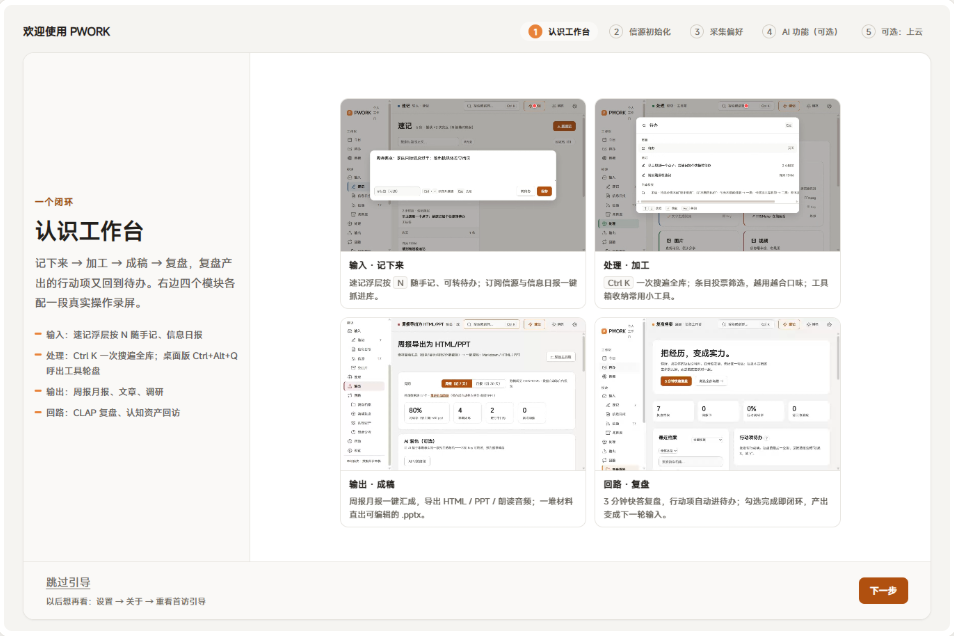
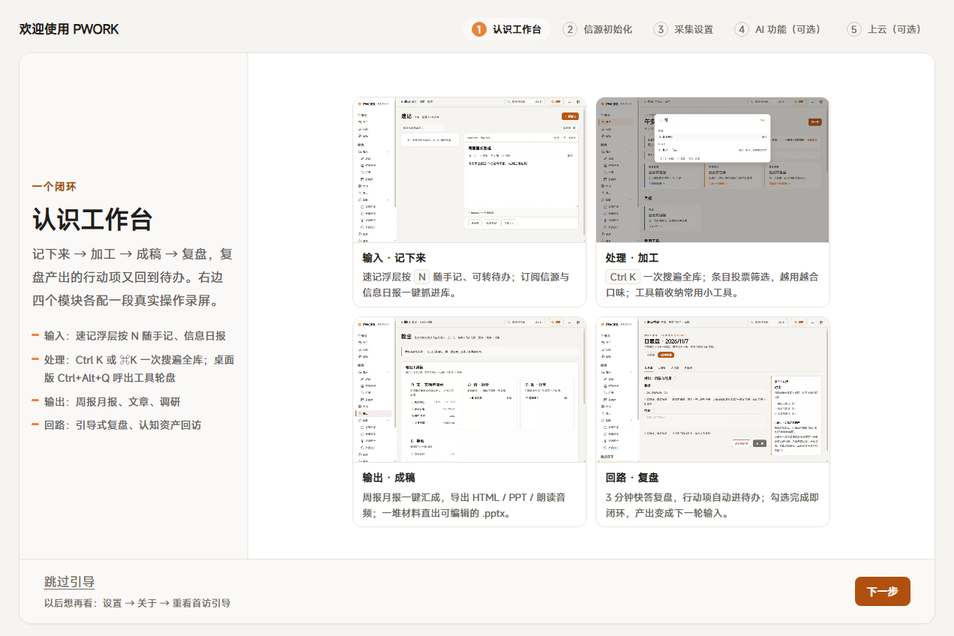
assets(0.1.16 宣传图): ①中央实拍素材更新——0.1.16 新引导首屏（新视频帧/引导式复盘文案），按真源原则从 1272×848 视口截取缩放 954×636 入库；②模板数字卡 48 源 → 80 源（失步修正）；③promo-1080-v5 出图验收通过（v4 含旧数字已删）

diff --git a/docs/assets/promo-1080.html b/docs/assets/promo-1080.html
@@ -74,7 +74,7 @@
 
   <div class="grid">
     <div class="cell" style="--dot:#4a7db5"><h3>四步闭环运转</h3><p>行动项自动回待办</p></div>
-    <div class="cell" style="--dot:#4d9e6a"><h3>信息自动找上门</h3><p>48 源每天筛 10 条</p></div>
+    <div class="cell" style="--dot:#4d9e6a"><h3>信息自动找上门</h3><p>80 源每天筛 10 条</p></div>
     <div class="cell" style="--dot:#d98e3a"><h3>成稿一键生成</h3><p>周报 PPT 自己汇</p></div>
     <div class="cell" style="--dot:#4a7db5"><h3>数据只在本地</h3><p>不上传可随时搬</p></div>
     <div class="cell" style="--dot:#4d9e6a"><h3>增强皆可选项</h3><p>AI 云端不配也全</p></div>
